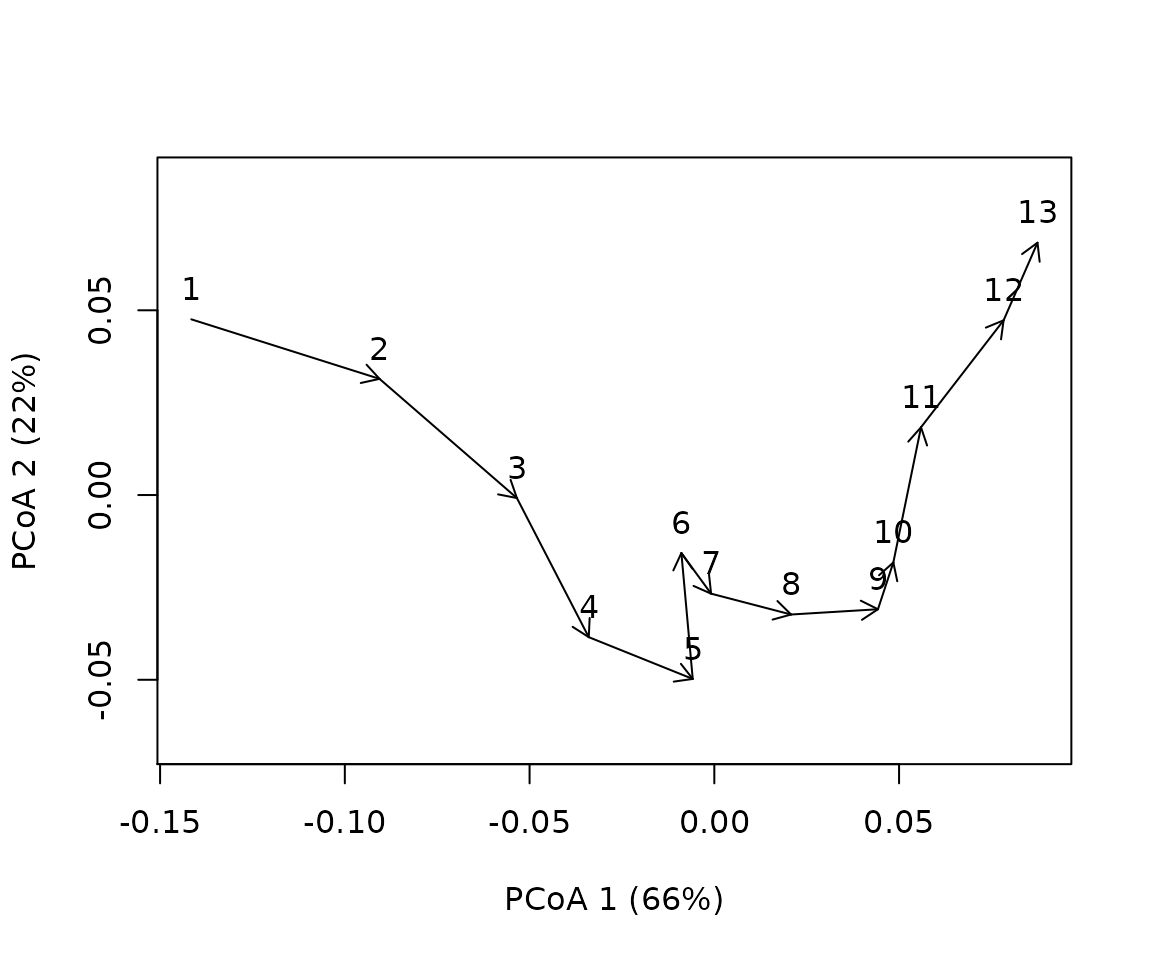
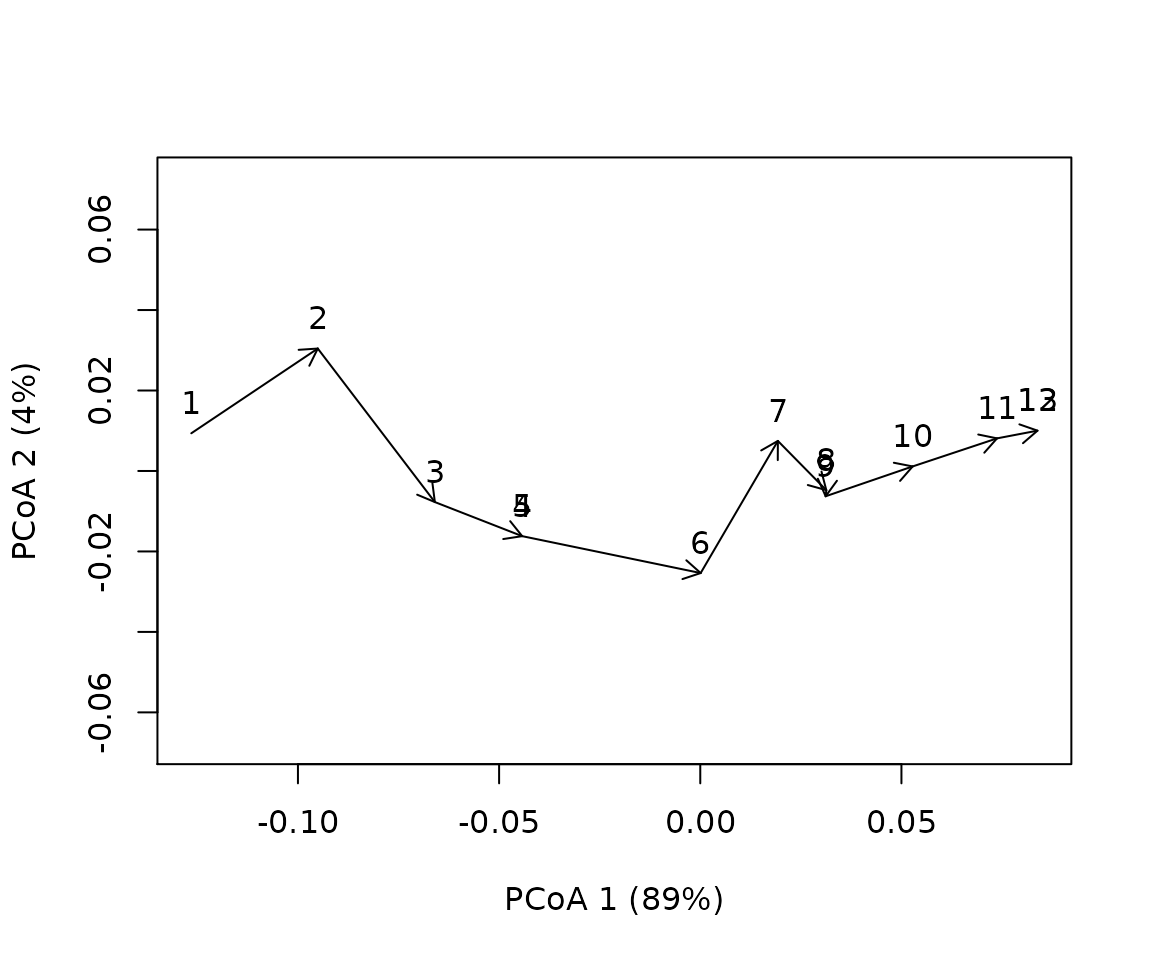
docs

diff --git a/docs/articles/CTA.html b/docs/articles/CTA.html
@@ -5,13 +5,13 @@
 <meta charset="utf-8">
 <meta http-equiv="X-UA-Compatible" content="IE=edge">
 <meta name="viewport" content="width=device-width, initial-scale=1.0">
-<title>Ecological trajectory analysis • ecotraj</title>
+<title>Introduction to Ecological Trajectory Analysis • ecotraj</title>
 <!-- jquery --><script src="https://cdnjs.cloudflare.com/ajax/libs/jquery/3.4.1/jquery.min.js" integrity="sha256-CSXorXvZcTkaix6Yvo6HppcZGetbYMGWSFlBw8HfCJo=" crossorigin="anonymous"></script><!-- Bootstrap --><link rel="stylesheet" href="https://cdnjs.cloudflare.com/ajax/libs/twitter-bootstrap/3.4.1/css/bootstrap.min.css" integrity="sha256-bZLfwXAP04zRMK2BjiO8iu9pf4FbLqX6zitd+tIvLhE=" crossorigin="anonymous">
 <script src="https://cdnjs.cloudflare.com/ajax/libs/twitter-bootstrap/3.4.1/js/bootstrap.min.js" integrity="sha256-nuL8/2cJ5NDSSwnKD8VqreErSWHtnEP9E7AySL+1ev4=" crossorigin="anonymous"></script><!-- bootstrap-toc --><link rel="stylesheet" href="../bootstrap-toc.css">
 <script src="../bootstrap-toc.js"></script><!-- Font Awesome icons --><link rel="stylesheet" href="https://cdnjs.cloudflare.com/ajax/libs/font-awesome/5.12.1/css/all.min.css" integrity="sha256-mmgLkCYLUQbXn0B1SRqzHar6dCnv9oZFPEC1g1cwlkk=" crossorigin="anonymous">
 <link rel="stylesheet" href="https://cdnjs.cloudflare.com/ajax/libs/font-awesome/5.12.1/css/v4-shims.min.css" integrity="sha256-wZjR52fzng1pJHwx4aV2AO3yyTOXrcDW7jBpJtTwVxw=" crossorigin="anonymous">
 <!-- clipboard.js --><script src="https://cdnjs.cloudflare.com/ajax/libs/clipboard.js/2.0.6/clipboard.min.js" integrity="sha256-inc5kl9MA1hkeYUt+EC3BhlIgyp/2jDIyBLS6k3UxPI=" crossorigin="anonymous"></script><!-- headroom.js --><script src="https://cdnjs.cloudflare.com/ajax/libs/headroom/0.11.0/headroom.min.js" integrity="sha256-AsUX4SJE1+yuDu5+mAVzJbuYNPHj/WroHuZ8Ir/CkE0=" crossorigin="anonymous"></script><script src="https://cdnjs.cloudflare.com/ajax/libs/headroom/0.11.0/jQuery.headroom.min.js" integrity="sha256-ZX/yNShbjqsohH1k95liqY9Gd8uOiE1S4vZc+9KQ1K4=" crossorigin="anonymous"></script><!-- pkgdown --><link href="../pkgdown.css" rel="stylesheet">
-<script src="../pkgdown.js"></script><meta property="og:title" content="Ecological trajectory analysis">
+<script src="../pkgdown.js"></script><meta property="og:title" content="Introduction to Ecological Trajectory Analysis">
 <meta property="og:description" content="ecotraj">
 <!-- mathjax --><script src="https://cdnjs.cloudflare.com/ajax/libs/mathjax/2.7.5/MathJax.js" integrity="sha256-nvJJv9wWKEm88qvoQl9ekL2J+k/RWIsaSScxxlsrv8k=" crossorigin="anonymous"></script><script src="https://cdnjs.cloudflare.com/ajax/libs/mathjax/2.7.5/config/TeX-AMS-MML_HTMLorMML.js" integrity="sha256-84DKXVJXs0/F8OTMzX4UR909+jtl4G7SPypPavF+GfA=" crossorigin="anonymous"></script><!--[if lt IE 9]>
 <script src="https://oss.maxcdn.com/html5shiv/3.7.3/html5shiv.min.js"></script>
@@ -54,7 +54,7 @@
   </a>
   <ul class="dropdown-menu" role="menu">
 <li>
-      <a href="../articles/CTA.html">Ecological trajectory analysis</a>
+      <a href="../articles/CTA.html">Introduction to Ecological Trajectory Analysis</a>
     </li>
   </ul>
 </li>
@@ -72,7 +72,7 @@
       </header><script src="CTA_files/header-attrs-2.8/header-attrs.js"></script><div class="row">
   <div class="col-md-9 contents">
     <div class="page-header toc-ignore">
-      <h1 data-toc-skip>Ecological trajectory analysis</h1>
+      <h1 data-toc-skip>Introduction to Ecological Trajectory Analysis</h1>
                         <h4 class="author">Miquel De Cáceres</h4>
             
             <h4 class="date">2021-05-30</h4>
@@ -674,32 +674,47 @@
 <p>Local transformations are not possible to display trajectories. When we plot the trajectory using function <code>trajectoryPCoA</code> the global transformation of principal coordinates analysis (PCoA) with negative eigenvalue correction is performed. This is fine to display trajectories, but has problems when measuring angular properties, as we will see.</p>
 <div class="sourceCode" id="cb102"><pre class="downlit sourceCode r">
 <code class="sourceCode R"><span class="va">pcoa</span><span class="op">&lt;-</span><span class="fu"><a href="../reference/trajectories.html">trajectoryPCoA</a></span><span class="op">(</span><span class="va">D</span>, <span class="va">sites</span>, <span class="va">surveys</span>, selection<span class="op">=</span><span class="fl">1</span>,length<span class="op">=</span><span class="fl">0.1</span>, axes<span class="op">=</span><span class="fu"><a href="https://rdrr.io/r/base/c.html">c</a></span><span class="op">(</span><span class="fl">1</span>,<span class="fl">2</span><span class="op">)</span>, survey.labels <span class="op">=</span> <span class="cn">T</span><span class="op">)</span></code></pre></div>
+<pre><code>## Warning in arrows(x[niini], y[niini], x[nifin], y[nifin], ...): zero-length
+## arrow is of indeterminate angle and so skipped
+
+## Warning in arrows(x[niini], y[niini], x[nifin], y[nifin], ...): zero-length
+## arrow is of indeterminate angle and so skipped</code></pre>
 <p><img src="CTA_files/figure-html/unnamed-chunk-32-1.png" width="576" style="display: block; margin: auto;"></p>
-<div class="sourceCode" id="cb103"><pre class="downlit sourceCode r">
+<div class="sourceCode" id="cb104"><pre class="downlit sourceCode r">
 <code class="sourceCode R"><span class="va">pcoaD</span> <span class="op">=</span> <span class="fu"><a href="https://rdrr.io/r/stats/dist.html">dist</a></span><span class="op">(</span><span class="va">pcoa</span><span class="op">$</span><span class="va">points</span><span class="op">)</span></code></pre></div>
 <p>The trajectory has some twists derived from stochasticity in death and recruitment. Let’s now look at the square root of the Bray-Curtis dissimilarity:</p>
-<div class="sourceCode" id="cb104"><pre class="downlit sourceCode r">
+<div class="sourceCode" id="cb105"><pre class="downlit sourceCode r">
 <code class="sourceCode R"><span class="va">sqrtD</span> <span class="op">=</span> <span class="fu"><a href="https://rdrr.io/r/base/MathFun.html">sqrt</a></span><span class="op">(</span><span class="va">D</span><span class="op">)</span>
 <span class="va">pcoaSqrt</span> <span class="op">=</span> <span class="fu"><a href="../reference/trajectories.html">trajectoryPCoA</a></span><span class="op">(</span><span class="va">sqrtD</span>, <span class="va">sites</span>, <span class="va">surveys</span>, selection<span class="op">=</span><span class="fl">1</span>,length<span class="op">=</span><span class="fl">0.1</span>, axes<span class="op">=</span><span class="fu"><a href="https://rdrr.io/r/base/c.html">c</a></span><span class="op">(</span><span class="fl">1</span>,<span class="fl">2</span><span class="op">)</span>, survey.labels <span class="op">=</span> <span class="cn">T</span><span class="op">)</span></code></pre></div>
+<pre><code>## Warning in arrows(x[niini], y[niini], x[nifin], y[nifin], ...): zero-length
+## arrow is of indeterminate angle and so skipped
+
+## Warning in arrows(x[niini], y[niini], x[nifin], y[nifin], ...): zero-length
+## arrow is of indeterminate angle and so skipped</code></pre>
 <p><img src="CTA_files/figure-html/unnamed-chunk-33-1.png" width="576" style="display: block; margin: auto;"></p>
 <p>Finally, we also transform dissimilarities using metric multidimensional scaling (mMDS), provided by package <code>smacof</code>:</p>
-<div class="sourceCode" id="cb105"><pre class="downlit sourceCode r">
+<div class="sourceCode" id="cb107"><pre class="downlit sourceCode r">
 <code class="sourceCode R"><span class="va">res</span> <span class="op">&lt;-</span> <span class="fu"><a href="https://rdrr.io/pkg/smacof/man/smacofSym.html">mds</a></span><span class="op">(</span><span class="va">D</span>, ndim <span class="op">=</span> <span class="fu"><a href="https://rdrr.io/r/base/length.html">length</a></span><span class="op">(</span><span class="va">Sj</span><span class="op">)</span><span class="op">-</span><span class="fl">1</span>, type <span class="op">=</span> <span class="st">"interval"</span><span class="op">)</span>
 <span class="va">mmdsD</span> <span class="op">&lt;-</span> <span class="fu"><a href="https://rdrr.io/r/stats/dist.html">dist</a></span><span class="op">(</span><span class="va">res</span><span class="op">$</span><span class="va">conf</span><span class="op">)</span>
 <span class="fu"><a href="../reference/trajectories.html">trajectoryPlot</a></span><span class="op">(</span><span class="va">res</span><span class="op">$</span><span class="va">conf</span>, <span class="va">sites</span>, <span class="va">surveys</span>, selection<span class="op">=</span><span class="fl">1</span>,length<span class="op">=</span><span class="fl">0.1</span>, axes<span class="op">=</span><span class="fu"><a href="https://rdrr.io/r/base/c.html">c</a></span><span class="op">(</span><span class="fl">1</span>,<span class="fl">2</span><span class="op">)</span>, survey.labels <span class="op">=</span> <span class="cn">T</span><span class="op">)</span></code></pre></div>
+<pre><code>## Warning in arrows(xp[niini], yp[niini], xp[nifin], yp[nifin], ...): zero-length
+## arrow is of indeterminate angle and so skipped
+
+## Warning in arrows(xp[niini], yp[niini], xp[nifin], yp[nifin], ...): zero-length
+## arrow is of indeterminate angle and so skipped</code></pre>
 <p><img src="CTA_files/figure-html/unnamed-chunk-34-1.png" width="576" style="display: block; margin: auto;"></p>
 <p>While the three plots look different, the differences are not striking (besides rotation issues). We can compare the stress of the global solutions:</p>
-<div class="sourceCode" id="cb106"><pre class="downlit sourceCode r">
+<div class="sourceCode" id="cb109"><pre class="downlit sourceCode r">
 <code class="sourceCode R"><span class="fu"><a href="https://rdrr.io/pkg/smacof/man/stress0.html">stress0</a></span><span class="op">(</span><span class="va">D</span>,<span class="va">pcoaSqrt</span><span class="op">$</span><span class="va">points</span>, type<span class="op">=</span><span class="st">"interval"</span><span class="op">)</span></code></pre></div>
-<pre><code>## [1] 0.05593728</code></pre>
-<div class="sourceCode" id="cb108"><pre class="downlit sourceCode r">
+<pre><code>## [1] 0.07923704</code></pre>
+<div class="sourceCode" id="cb111"><pre class="downlit sourceCode r">
 <code class="sourceCode R"><span class="fu"><a href="https://rdrr.io/pkg/smacof/man/stress0.html">stress0</a></span><span class="op">(</span><span class="va">D</span>,<span class="va">pcoa</span><span class="op">$</span><span class="va">points</span>, type<span class="op">=</span><span class="st">"interval"</span><span class="op">)</span></code></pre></div>
-<pre><code>## [1] 0.006076326</code></pre>
-<div class="sourceCode" id="cb110"><pre class="downlit sourceCode r">
+<pre><code>## [1] 0.002439595</code></pre>
+<div class="sourceCode" id="cb113"><pre class="downlit sourceCode r">
 <code class="sourceCode R"><span class="fu"><a href="https://rdrr.io/pkg/smacof/man/stress0.html">stress0</a></span><span class="op">(</span><span class="va">D</span>,<span class="va">res</span><span class="op">$</span><span class="va">conf</span>, type<span class="op">=</span><span class="st">"interval"</span><span class="op">)</span></code></pre></div>
-<pre><code>## [1] 0.01145308</code></pre>
+<pre><code>## [1] 0.01111985</code></pre>
 <p>Where we see that the square root leads to the strongest alteration of original dissimilarities. If we calculate geometric properties we are not limited by ordination plots and we can take into account all dimensions.</p>
-<div class="sourceCode" id="cb112"><pre class="downlit sourceCode r">
+<div class="sourceCode" id="cb115"><pre class="downlit sourceCode r">
 <code class="sourceCode R"><span class="va">anglesD</span> <span class="op">=</span> <span class="fu"><a href="../reference/trajectories.html">trajectoryAngles</a></span><span class="op">(</span><span class="va">D</span>,<span class="va">sites</span>,<span class="va">surveys</span><span class="op">)</span>
 <span class="va">anglesSqrtD</span> <span class="op">=</span> <span class="fu"><a href="../reference/trajectories.html">trajectoryAngles</a></span><span class="op">(</span><span class="va">sqrtD</span>,<span class="va">sites</span>,<span class="va">surveys</span><span class="op">)</span>
 <span class="va">anglesPcoaD</span> <span class="op">=</span> <span class="fu"><a href="../reference/trajectories.html">trajectoryAngles</a></span><span class="op">(</span><span class="va">pcoaD</span>,<span class="va">sites</span>,<span class="va">surveys</span><span class="op">)</span>
@@ -708,34 +723,34 @@
 <span class="va">df</span><span class="op">&lt;-</span><span class="fu"><a href="https://rdrr.io/r/base/as.data.frame.html">as.data.frame</a></span><span class="op">(</span><span class="fu"><a href="https://rdrr.io/r/base/cbind.html">rbind</a></span><span class="op">(</span><span class="va">anglesD</span>, <span class="va">anglesSqrtD</span>, <span class="va">anglesPcoaD</span>, <span class="va">anglesmmdsD</span><span class="op">)</span><span class="op">)</span>
 <span class="fu"><a href="https://rdrr.io/r/base/row.names.html">row.names</a></span><span class="op">(</span><span class="va">df</span><span class="op">)</span><span class="op">&lt;-</span><span class="fu"><a href="https://rdrr.io/r/base/c.html">c</a></span><span class="op">(</span><span class="st">"local"</span>, <span class="st">"global.sqrt"</span>, <span class="st">"global.pcoa"</span>, <span class="st">"global.mmds"</span><span class="op">)</span>
 <span class="fu"><a href="https://rdrr.io/r/base/Round.html">round</a></span><span class="op">(</span><span class="va">df</span>,<span class="fl">2</span><span class="op">)</span></code></pre></div>
-<pre><code>##             S1-S2 S2-S3 S3-S4  S4-S5  S5-S6 S6-S7 S7-S8 S8-S9 S9-S10 S10-S11
-## local        0.00  0.00  0.00 131.81    NaN  0.00  0.00  0.00   0.00    0.00
-## global.sqrt 90.00 90.00 90.00 125.26 120.00 90.00 90.00 90.00  90.00   90.00
-## global.pcoa 70.38 76.25 79.42 126.14 122.04 94.58 88.08 94.58  90.87   79.42
-## global.mmds 43.01 51.22 57.58 129.99 134.49 69.06 62.13 72.53  63.11   46.23
-##             S11-S12  mean   sd  rho
-## local          0.00  5.11 0.60 0.84
-## global.sqrt   90.00 95.76 0.22 0.98
-## global.pcoa   83.92 91.17 0.30 0.96
-## global.mmds   35.34 67.44 0.55 0.86</code></pre>
+<pre><code>##              S1-S2 S2-S3  S3-S4  S4-S5  S5-S6  S6-S7 S7-S8  S8-S9 S9-S10
+## local        82.82  0.00 104.48  97.18  82.82 131.81  0.00 104.48   0.00
+## global.sqrt 104.48 90.00 110.70 104.48 104.48 125.26 90.00 110.70  90.00
+## global.pcoa  93.39 67.20 110.62 102.78  93.39 127.89 78.68 110.62  74.54
+## global.mmds  89.96 37.34 105.84  98.06  81.37 127.14 61.06 111.08  14.61
+##             S10-S11 S11-S12   mean   sd  rho
+## local          0.00     NaN  62.40 0.95 0.64
+## global.sqrt   90.00     NaN 101.97 0.20 0.98
+## global.pcoa   82.52  106.86  95.29 0.31 0.95
+## global.mmds   26.87   29.02  71.53 0.67 0.80</code></pre>
 <p>The first call to <code>trajectoryAngles</code> with matrix <code>D</code> represents the default strategy of transforming triangles locally, which involves the weakest transformation of all and can be taken as reference. Both the square root and PCoA with negative eigenvalue correction induce a strong transformation of trajectory angles. The global solution of metric MDS leads to angles that are more similar to those of the local transformation strategy.</p>
 <p>If we inspect the overall directionality, the global solution of metric MDS provides a value that is again closer to that of local transformation, compared to PCoA and the square root:</p>
-<div class="sourceCode" id="cb114"><pre class="downlit sourceCode r">
+<div class="sourceCode" id="cb117"><pre class="downlit sourceCode r">
 <code class="sourceCode R"><span class="fu"><a href="../reference/trajectories.html">trajectoryDirectionality</a></span><span class="op">(</span><span class="va">D</span>,<span class="va">sites</span>,<span class="va">surveys</span><span class="op">)</span></code></pre></div>
 <pre><code>##         1 
-## 0.7284339</code></pre>
-<div class="sourceCode" id="cb116"><pre class="downlit sourceCode r">
+## 0.8780154</code></pre>
+<div class="sourceCode" id="cb119"><pre class="downlit sourceCode r">
 <code class="sourceCode R"><span class="fu"><a href="../reference/trajectories.html">trajectoryDirectionality</a></span><span class="op">(</span><span class="va">sqrtD</span>,<span class="va">sites</span>,<span class="va">surveys</span><span class="op">)</span></code></pre></div>
-<pre><code>##         1 
-## 0.4609207</code></pre>
-<div class="sourceCode" id="cb118"><pre class="downlit sourceCode r">
+<pre><code>##        1 
+## 0.482667</code></pre>
+<div class="sourceCode" id="cb121"><pre class="downlit sourceCode r">
 <code class="sourceCode R"><span class="fu"><a href="../reference/trajectories.html">trajectoryDirectionality</a></span><span class="op">(</span><span class="va">pcoaD</span>,<span class="va">sites</span>,<span class="va">surveys</span><span class="op">)</span></code></pre></div>
 <pre><code>##         1 
-## 0.5471841</code></pre>
-<div class="sourceCode" id="cb120"><pre class="downlit sourceCode r">
+## 0.6481776</code></pre>
+<div class="sourceCode" id="cb123"><pre class="downlit sourceCode r">
 <code class="sourceCode R"><span class="fu"><a href="../reference/trajectories.html">trajectoryDirectionality</a></span><span class="op">(</span><span class="va">mmdsD</span>,<span class="va">sites</span>,<span class="va">surveys</span><span class="op">)</span></code></pre></div>
 <pre><code>##         1 
-## 0.6318978</code></pre>
+## 0.7818846</code></pre>
 </div>
 <div id="conclusions" class="section level3">
 <h3 class="hasAnchor">

diff --git a/docs/index.html b/docs/index.html
@@ -54,7 +54,7 @@
   </a>
   <ul class="dropdown-menu" role="menu">
 <li>
-      <a href="articles/CTA.html">Ecological trajectory analysis</a>
+      <a href="articles/CTA.html">Introduction to Ecological Trajectory Analysis</a>
     </li>
   </ul>
 </li>
@@ -71,7 +71,33 @@
 
       </header><div class="row">
   <div class="contents col-md-9">
-A set of functions to perform ecological trajectory analysis [De Caceres et al. (2019): &lt;<a href="https://doi.org/10.1002/ecm.1350">doi:10.1002/ecm.1350</a>&gt;].
+<div id="ecotraj" class="section level1">
+<div class="page-header"><h1 class="hasAnchor">
+<a href="#ecotraj" class="anchor"></a>ecotraj</h1></div>
+<div id="introduction" class="section level2">
+<h2 class="hasAnchor">
+<a href="#introduction" class="anchor"></a>Introduction</h2>
+<p>Package <code>ecotraj</code> is a package designed to assist ecologists in the analysis of temporal changes in ecosystems. It is related to the following publications:</p>
+<ul>
+<li>Presentation of community trajectory analysis De Cáceres et al. (2019) <a href="doi:10.1002/ecm.1350" class="uri">doi:10.1002/ecm.1350</a>
+</li>
+</ul>
+</div>
+<div id="package-installation" class="section level2">
+<h2 class="hasAnchor">
+<a href="#package-installation" class="anchor"></a>Package installation</h2>
+<p>Package ecptraj can be found at <a href="https://cran.r-project.org/">CRAN</a> package repository. In addition, the latest stable <code>ecptraj</code> R package can be installed from GitHub as follows:</p>
+<div class="sourceCode" id="cb1"><pre class="downlit sourceCode r">
+<code class="sourceCode R"><span class="fu">devtools</span><span class="fu">::</span><span class="fu"><a href="https://devtools.r-lib.org//reference/remote-reexports.html">install_github</a></span><span class="op">(</span><span class="st">"emf-creaf/ecotraj"</span><span class="op">)</span></code></pre></div>
+</div>
+<div id="references" class="section level2">
+<h2 class="hasAnchor">
+<a href="#references" class="anchor"></a>References</h2>
+<ul>
+<li>De Cáceres, M., Coll, L., Legendre, P., Allen, R.B., Wiser, S.K., Fortin, M.J., Condit, R. &amp; Hubbell, S.. (2019). Trajectory analysis in community ecology. Ecological Monographs.</li>
+</ul>
+</div>
+</div>
   </div>
 
   <div class="col-md-3 hidden-xs hidden-sm" id="pkgdown-sidebar">

diff --git a/docs/reference/index.html b/docs/reference/index.html
@@ -94,7 +94,7 @@
   </a>
   <ul class="dropdown-menu" role="menu">
     <li>
-      <a href="../articles/CTA.html">Ecological trajectory analysis</a>
+      <a href="../articles/CTA.html">Introduction to Ecological Trajectory Analysis</a>
     </li>
   </ul>
 </li>
@@ -128,8 +128,8 @@
     <tbody>
       <tr>
         <th colspan="2">
-          <h2 id="section-community-trajectory-analysis" class="hasAnchor"><a href="#section-community-trajectory-analysis" class="anchor"></a>Community trajectory analysis</h2>
-          <p class="section-desc"><p>Functions for analysing community trajectories in compositional spaces</p></p>
+          <h2 id="section-ecological-trajectory-analysis" class="hasAnchor"><a href="#section-ecological-trajectory-analysis" class="anchor"></a>Ecological Trajectory Analysis</h2>
+          <p class="section-desc"><p>Functions for analysing ecosystem trajectories in chosen multivariate spaces</p></p>
         </th>
       </tr>
       

diff --git a/docs/articles/index.html b/docs/articles/index.html
@@ -94,7 +94,7 @@
   </a>
   <ul class="dropdown-menu" role="menu">
     <li>
-      <a href="../articles/CTA.html">Ecological trajectory analysis</a>
+      <a href="../articles/CTA.html">Introduction to Ecological Trajectory Analysis</a>
     </li>
   </ul>
 </li>
@@ -122,7 +122,7 @@
       <p class="section-desc"></p>
 
       <dl>
-        <dt><a href="CTA.html">Ecological trajectory analysis</a></dt>
+        <dt><a href="CTA.html">Introduction to Ecological Trajectory Analysis</a></dt>
         <dd></dt>
       </dl>
     </div>

diff --git a/docs/reference/trajectories.html b/docs/reference/trajectories.html
@@ -111,7 +111,7 @@ Function is.metric checks whether the input dissimilarity matrix is metric (i.e.
   </a>
   <ul class="dropdown-menu" role="menu">
     <li>
-      <a href="../articles/CTA.html">Ecological trajectory analysis</a>
+      <a href="../articles/CTA.html">Introduction to Ecological Trajectory Analysis</a>
     </li>
   </ul>
 </li>

diff --git a/docs/reference/avoca.html b/docs/reference/avoca.html
@@ -98,7 +98,7 @@ Previously forests consisted of largely mature stands, but some of them were aff
   </a>
   <ul class="dropdown-menu" role="menu">
     <li>
-      <a href="../articles/CTA.html">Ecological trajectory analysis</a>
+      <a href="../articles/CTA.html">Introduction to Ecological Trajectory Analysis</a>
     </li>
   </ul>
 </li>

diff --git a/docs/404.html b/docs/404.html
@@ -94,7 +94,7 @@
   </a>
   <ul class="dropdown-menu" role="menu">
     <li>
-      <a href="articles/CTA.html">Ecological trajectory analysis</a>
+      <a href="articles/CTA.html">Introduction to Ecological Trajectory Analysis</a>
     </li>
   </ul>
 </li>

diff --git a/docs/authors.html b/docs/authors.html
@@ -94,7 +94,7 @@
   </a>
   <ul class="dropdown-menu" role="menu">
     <li>
-      <a href="articles/CTA.html">Ecological trajectory analysis</a>
+      <a href="articles/CTA.html">Introduction to Ecological Trajectory Analysis</a>
     </li>
   </ul>
 </li>

diff --git a/README.md b/README.md
@@ -1,0 +1,27 @@
+ecotraj
+================
+
+## Introduction
+
+Package `ecotraj` is a package designed to assist ecologists in the
+analysis of temporal changes in ecosystems. It is related to the
+following publications:
+
+-   Presentation of community trajectory analysis De Cáceres et
+    al. (2019) <doi:10.1002/ecm.1350>
+
+## Package installation
+
+Package ecptraj can be found at [CRAN](https://cran.r-project.org/)
+package repository. In addition, the latest stable `ecptraj` R package
+can be installed from GitHub as follows:
+
+``` r
+devtools::install_github("emf-creaf/ecotraj")
+```
+
+## References
+
+-   De Cáceres, M., Coll, L., Legendre, P., Allen, R.B., Wiser, S.K.,
+    Fortin, M.J., Condit, R. & Hubbell, S.. (2019). Trajectory analysis
+    in community ecology. Ecological Monographs.
